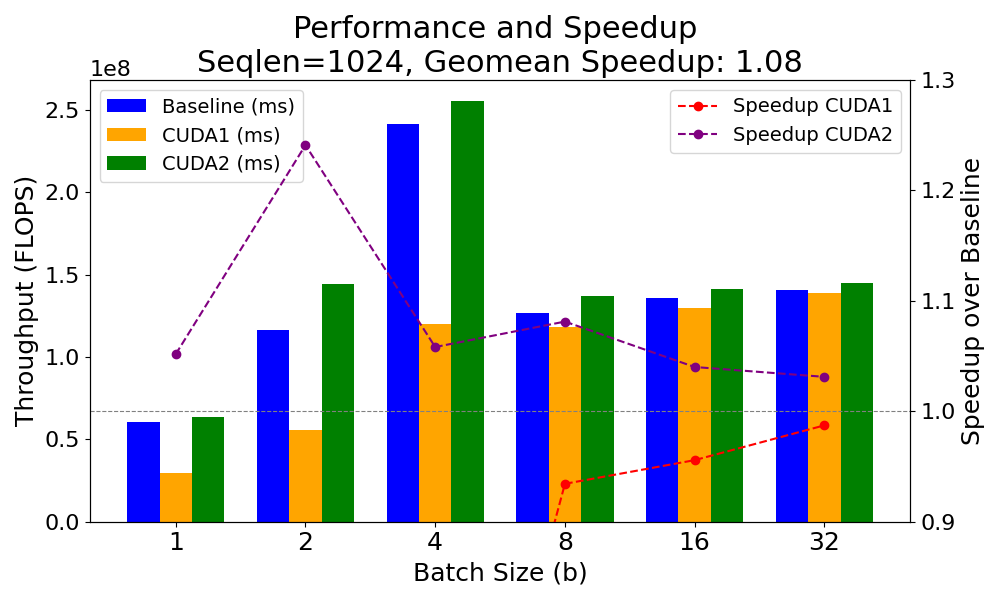
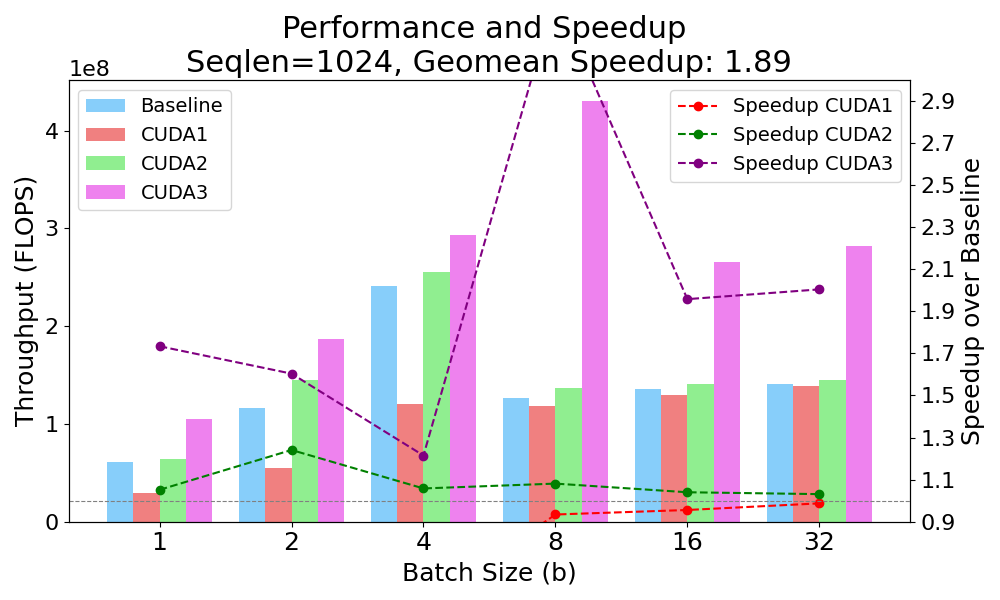
add plots and data for cuda3 implementation

diff --git a/scripts/bz.py b/scripts/bz.py
@@ -23,41 +23,51 @@ def plot_grouped_bars_with_speedup(data, title, output_file, throughput : bool =
     default = data['default(ms)']
     cuda1 = data['cuda1(ms)']
     cuda2 = data['cuda2(ms)']
+    cuda3 = data['cuda3(ms)']
     FLOPs = data['FLOPs']
     
     if throughput:
         default = FLOPs / default * 10**3
         cuda1 = FLOPs / cuda1 * 10**3
         cuda2 = FLOPs / cuda2 * 10**3
+        cuda3 = FLOPs / cuda3 * 10**3
 
     # Calculate speedup over default
     if throughput:
         speedup_cuda1 = cuda1 / default 
         speedup_cuda2 = cuda2 / default
+        speedup_cuda3 = cuda3 / default
         geomean_cuda1 = np.exp(np.mean(np.log(speedup_cuda1)))
         geomean_cuda2 = np.exp(np.mean(np.log(speedup_cuda2)))
+        geomean_cuda3 = np.exp(np.mean(np.log(speedup_cuda3)))
     else:
         speedup_cuda1 = default / cuda1
         speedup_cuda2 = default / cuda2
+        speedup_cuda3 = default / cuda3
         geomean_cuda1 = np.exp(np.mean(np.log(speedup_cuda1)))
         geomean_cuda2 = np.exp(np.mean(np.log(speedup_cuda2)))
+        geomean_cuda3 = np.exp(np.mean(np.log(speedup_cuda3)))
 
     x = np.arange(len(labels))  # Label locations
-    width = 0.25  # Width of the bars
+    width = 0.20  # Width of the bars
 
     fig, ax1 = plt.subplots(figsize=(10, 6))
 
     # Bar plots for execution times
-    ax1.bar(x - width, default, width, label='Baseline (ms)', color='blue')
-    ax1.bar(x, cuda1, width, label='CUDA1 (ms)', color='orange')
-    ax1.bar(x + width, cuda2, width, label='CUDA2 (ms)', color='green')
+    ax1.bar(x - 1.5*width, default, width, label='Baseline', color='lightskyblue')
+    ax1.bar(x - 0.5*width, cuda1, width, label='CUDA1', color='lightcoral')
+    # set ax1.bar color to light orange
+    ax1.bar(x + 0.5*width, cuda2, width, label='CUDA2', color='lightgreen')
+    # ax1.bar(x + 0.5*width, cuda2, width, label='CUDA2', color='green')
+    # set ax1.bar color to light purple
+    ax1.bar(x + 1.5*width, cuda3, width, label='CUDA3', color='violet')
 
     ax1.set_xlabel('Batch Size (b)', fontsize=18)
     if throughput:
         ax1.set_ylabel('Throughput (FLOPS)', fontsize=18)
     else:
         ax1.set_ylabel('Time (ms)', fontsize=18)
-    ax1.set_title(f"{title}, Geomean Speedup: {geomean_cuda2:.2f}", fontsize=22)
+    ax1.set_title(f"{title}, Geomean Speedup: {geomean_cuda3:.2f}", fontsize=22)
     ax1.set_xticks(x)
     ax1.set_xticklabels(labels, fontsize=18)
     ax1.tick_params(axis='y', labelsize=16)
@@ -67,13 +77,14 @@ def plot_grouped_bars_with_speedup(data, title, output_file, throughput : bool =
     # Secondary y-axis for speedup
     ax2 = ax1.twinx()
     ax2.plot(x, speedup_cuda1, label='Speedup CUDA1', color='red', marker='o', linestyle='--')
-    ax2.plot(x, speedup_cuda2, label='Speedup CUDA2', color='purple', marker='o', linestyle='--')
+    ax2.plot(x, speedup_cuda2, label='Speedup CUDA2', color='green', marker='o', linestyle='--')
+    ax2.plot(x, speedup_cuda3, label='Speedup CUDA3', color='purple', marker='o', linestyle='--')
     ax2.set_ylabel('Speedup over Baseline', fontsize=18)
     ax2.legend(loc='upper right', fontsize=14)
     
     # limit secondary y-axis to 0.9 to 1.3
-    ax2.set_ylim(0.9, 1.3)
-    ax2.set_yticks(np.arange(0.9, 1.4, 0.1))
+    ax2.set_ylim(0.9, 3.0)
+    ax2.set_yticks(np.arange(0.9, 3.1, 0.2))
     
     # set y ticks fontsize to 18
     ax2.tick_params(axis='y', labelsize=16)

diff --git a/scripts/seq.py b/scripts/seq.py
@@ -23,41 +23,48 @@ def plot_grouped_bars_with_speedup(data, title, output_file, throughput : bool =
     default = data['default(ms)']
     cuda1 = data['cuda1(ms)']
     cuda2 = data['cuda2(ms)']
+    cuda3 = data['cuda3(ms)']
     FLOPs = data['FLOPs']
     
     if throughput:
         default = FLOPs / default * 10**3
         cuda1 = FLOPs / cuda1 * 10**3
         cuda2 = FLOPs / cuda2 * 10**3
+        cuda3 = FLOPs / cuda3 * 10**3
 
     # Calculate speedup over default
     if throughput:
         speedup_cuda1 = cuda1 / default 
         speedup_cuda2 = cuda2 / default
+        speedup_cuda3 = cuda3 / default
         geomean_cuda1 = np.exp(np.mean(np.log(speedup_cuda1)))
         geomean_cuda2 = np.exp(np.mean(np.log(speedup_cuda2)))
+        geomean_cuda3 = np.exp(np.mean(np.log(speedup_cuda3)))
     else:
         speedup_cuda1 = default / cuda1
         speedup_cuda2 = default / cuda2
+        speedup_cuda3 = default / cuda3
         geomean_cuda1 = np.exp(np.mean(np.log(speedup_cuda1)))
         geomean_cuda2 = np.exp(np.mean(np.log(speedup_cuda2)))
+        geomean_cuda3 = np.exp(np.mean(np.log(speedup_cuda3)))
 
     x = np.arange(len(labels))  # Label locations
-    width = 0.25  # Width of the bars
+    width = 0.20  # Width of the bars
 
     fig, ax1 = plt.subplots(figsize=(10, 6))
 
     # Bar plots for execution times
-    ax1.bar(x - width, default, width, label='Baseline (ms)', color='blue')
-    ax1.bar(x, cuda1, width, label='CUDA1 (ms)', color='orange')
-    ax1.bar(x + width, cuda2, width, label='CUDA2 (ms)', color='green')
+    ax1.bar(x - 1.5*width, default, width, label='Baseline', color='lightskyblue')
+    ax1.bar(x - 0.5*width, cuda1, width, label='CUDA1', color='lightcoral')
+    ax1.bar(x + 0.5*width, cuda2, width, label='CUDA2', color='lightgreen')
+    ax1.bar(x + 1.5*width, cuda3, width, label='CUDA3', color='violet')
 
     ax1.set_xlabel('Seqence length (s)', fontsize=18)
     if throughput:
         ax1.set_ylabel('Throughput (FLOPS)', fontsize=18)
     else:
         ax1.set_ylabel('Time (ms)', fontsize=18)
-    ax1.set_title(f"{title}, Geomean Speedup: {geomean_cuda2:.2f}", fontsize=22)
+    ax1.set_title(f"{title}, Geomean Speedup: {geomean_cuda3:.2f}", fontsize=22)
     ax1.set_xticks(x)
     ax1.set_xticklabels(labels, fontsize=18)
     ax1.tick_params(axis='y', labelsize=16)
@@ -67,13 +74,14 @@ def plot_grouped_bars_with_speedup(data, title, output_file, throughput : bool =
     # Secondary y-axis for speedup
     ax2 = ax1.twinx()
     ax2.plot(x, speedup_cuda1, label='Speedup CUDA1', color='red', marker='o', linestyle='--')
-    ax2.plot(x, speedup_cuda2, label='Speedup CUDA2', color='purple', marker='o', linestyle='--')
+    ax2.plot(x, speedup_cuda2, label='Speedup CUDA2', color='green', marker='o', linestyle='--')
+    ax2.plot(x, speedup_cuda3, label='Speedup CUDA3', color='purple', marker='o', linestyle='--')
     ax2.set_ylabel('Speedup over Baseline', fontsize=18)
     ax2.legend(loc='upper right', fontsize=14)
     
     # limit secondary y-axis to 0.9 to 1.3
-    ax2.set_ylim(0.9, 1.2)
-    ax2.set_yticks(np.arange(0.9, 1.3, 0.1))
+    ax2.set_ylim(0.9, 3.0)
+    ax2.set_yticks(np.arange(0.9, 3.1, 0.2))
     
     # set y ticks fontsize to 18
     ax2.tick_params(axis='y', labelsize=16)

diff --git a/test_tiny_llama_rotary_embedding.py b/test_tiny_llama_rotary_embedding.py
@@ -6,10 +6,10 @@ import time
 import nvtx
 
 BENCHMARK_FREQUENCY = 100
-batch_size = 4
+batch_size = 8
 
-# dtype = torch.float32
-dtype = torch.bfloat16
+dtype = torch.float32
+# dtype = torch.bfloat16
 
 model_type = 'gpt2'  # 'gpt2', 'gpt2-medium', 'gpt2-large', 'gpt2-xl'
 
@@ -22,7 +22,7 @@ config_args = {
 
 @dataclass
 class GPTConfig:
-    block_size: int = 1024 # max sequence length
+    block_size: int = 4096 # max sequence length
     vocab_size: int = 50257 # number of tokens: 50,000 BPE merges + 256 bytes tokens + 1 <|endoftext|> token
     n_layer: int = 12 # number of layers
     n_head: int = 12 # number of heads
@@ -108,8 +108,8 @@ if torch.cuda.is_available():
 # q = torch.ones(2, 1024, 12, 64).to(device=device, dtype=torch.float32)
 # k = torch.ones(2, 1024, 12, 64).to(device=device, dtype=torch.float32)
 
-print('cos\n', cos)
-print('sin\n', sin)
+# print('cos\n', cos)
+# print('sin\n', sin)
 
 base_tensor = torch.tensor([0, 1, 2, 3, 4, 5, 6, 7, 8, 9, 10, 11, 12, 13, 14, 15])
 total_elements = batch_size * config.block_size * config.n_head * (config.n_embd // config.n_head)
@@ -117,7 +117,7 @@ total_elements = batch_size * config.block_size * config.n_head * (config.n_embd
 q = base_tensor.repeat(total_elements // base_tensor.numel()).reshape(batch_size, config.block_size, config.n_head, (config.n_embd // config.n_head)).to(dtype=dtype, device=device)
 k = base_tensor.repeat(total_elements // base_tensor.numel()).reshape(batch_size, config.block_size, config.n_head, (config.n_embd // config.n_head)).to(dtype=dtype, device=device)
 
-print('q:\n', q)
+# print('q:\n', q)
 
 # print('q.shape:', q.shape)
 # print('q.dtype:', q.dtype)
@@ -147,12 +147,12 @@ for i in range(BENCHMARK_FREQUENCY):
     # print time in nano seconds
     time_ns = (t2 - t1) * 1e6
     execution_times.append(time_ns)
-    # print('time taken:', (t2 - t1) * 1e6, 'ms')
+    print('time taken:', (t2 - t1) * 1e6, 'ms')
 
-print('=========')
-print(q)
-print('=========')
-print(xq)
+# print('=========')
+# print(q)
+# print('=========')
+# print(xq)
 
 
 # find median of execution time
